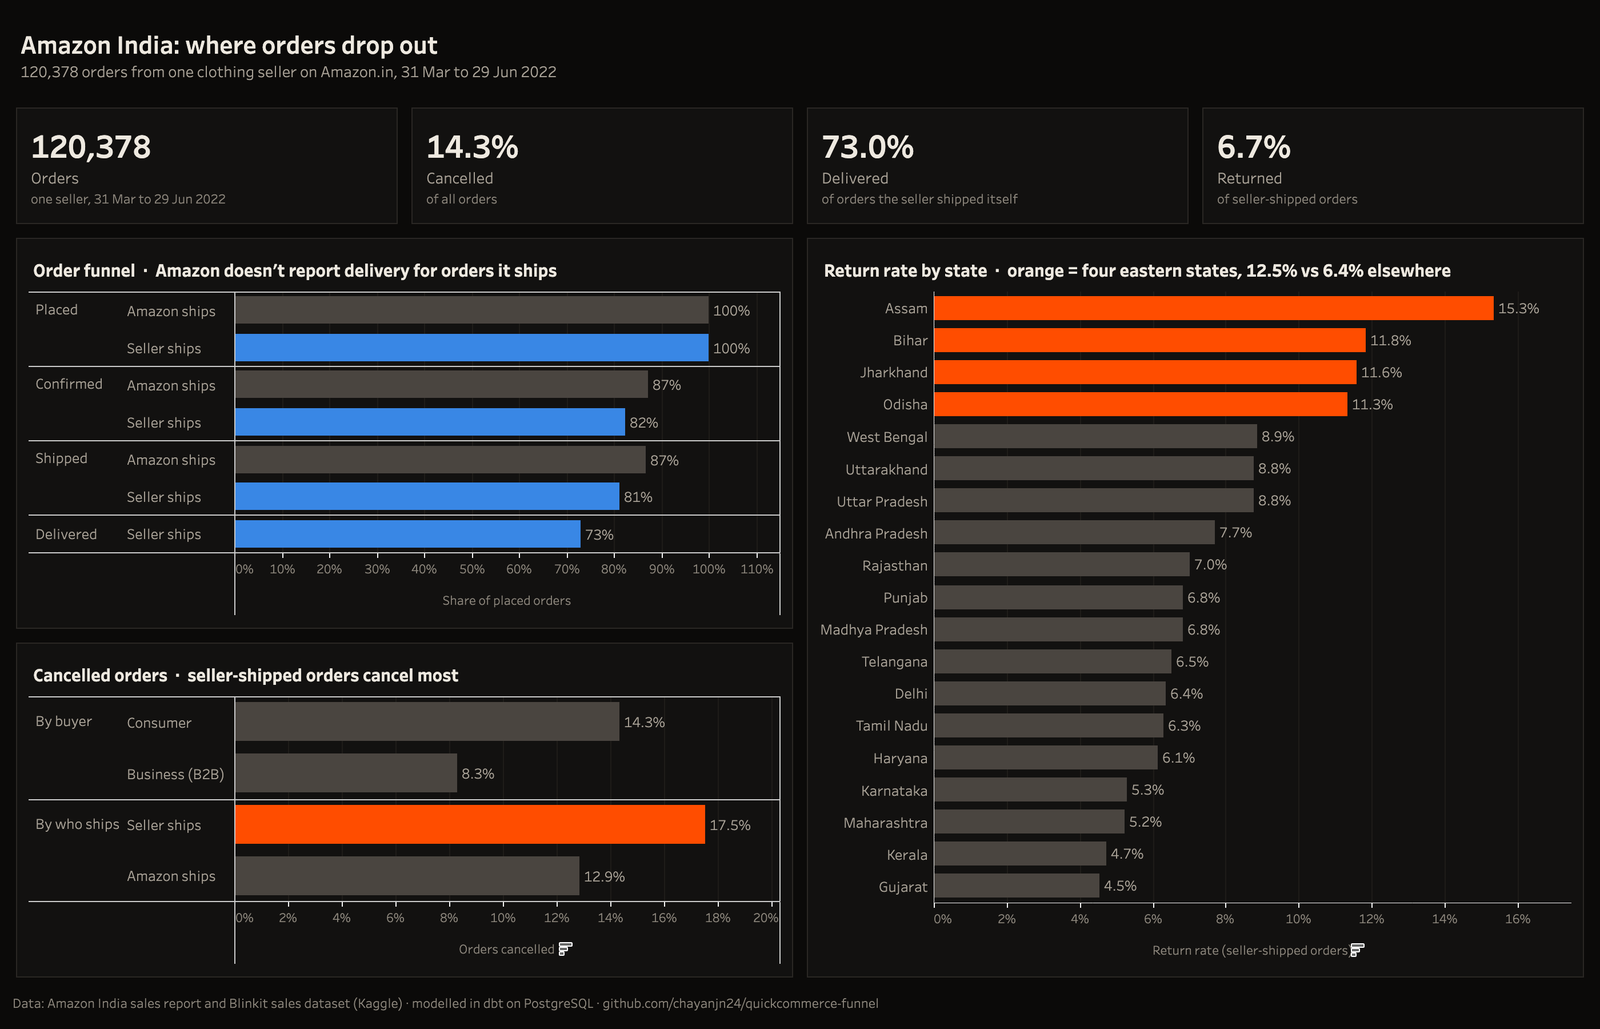
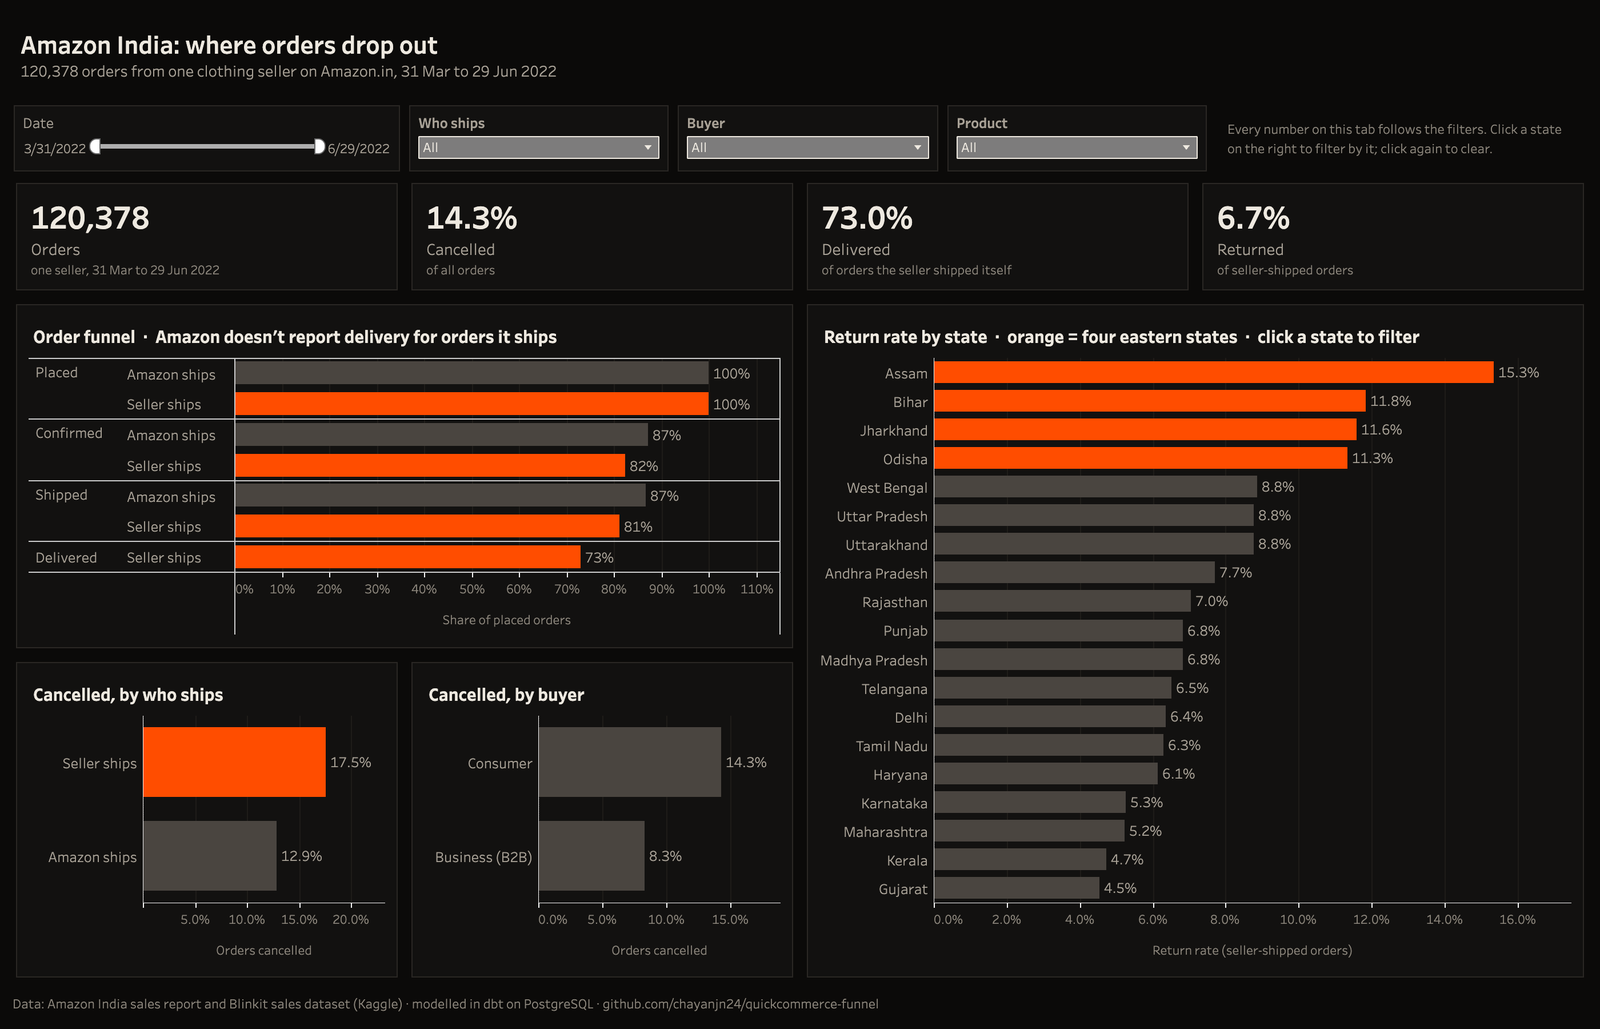
Dashboards with filters: new previews, Credit Risk embeds point at the republished workbooks and fit their fixed size

diff --git a/src/content/projects.ts b/src/content/projects.ts
@@ -55,7 +55,7 @@ const list: Omit<Project, 'num'>[] = [
       'Profiled and engineered features in SQL with CTEs, window functions and cohort analysis: revolving utilisation plus prior delinquency drove a 48% default rate, against 3% for low-risk borrowers.',
       'Benchmarked logistic regression (AUC 0.86) against XGBoost (AUC 0.87).',
       'Turned the scores into a lending policy: declining the riskiest 20% of applicants catches 73% of defaulters.',
-      'Published two cross-filtered Tableau Public dashboards and a business case study.',
+      'Published two cross-filtered Tableau Public dashboards, with filters for age, risk band, income, utilisation and past late payments, and a business case study.',
     ],
     results: [
       ['73%', 'of defaulters caught by declining the riskiest 20%'],
@@ -71,15 +71,17 @@ const list: Omit<Project, 'num'>[] = [
     dashboards: [
       {
         label: 'Portfolio model',
-        view: 'CreditDefaultRisk-PortfolioModel/CreditDefaultRiskPortfolioModel',
+        view: 'CreditDefaultRiskPortfolioModel/CreditDefaultRiskPortfolioModel',
         preview: '/images/projects/tableau-portfolio.png',
-        ratio: 1472 / 908,
+        ratio: 1200 / 800,
+        width: 1200,
       },
       {
         label: 'Risk drivers',
-        view: 'RiskDriversDeepDive/RiskDriversDeepDive',
+        view: 'RiskDriversDeepDive_17931717729410/RiskDriversDeepDive',
         preview: '/images/projects/tableau-drivers.png',
-        ratio: 1440 / 1112,
+        ratio: 1200 / 900,
+        width: 1200,
       },
     ],
   },
@@ -228,7 +230,7 @@ const list: Omit<Project, 'num'>[] = [
       'Caught a trap in the Amazon data: orders with a promotion code look like they almost never get cancelled (0.4% vs 36.1%), but the code is only added once an order goes through. Left it out of the cancellation analysis.',
       'Found returns concentrated in the East: Assam, Bihar, Jharkhand and Odisha sent back 12.5% of the seller’s shipments, twice the 6.4% elsewhere, still clear after correcting for testing 19 states at once.',
       'Simulated a ₹100 win-back test for customers lapsed 60+ days, using Blinkit’s real reorder rate (9.55%) and basket sizes, with a known true effect. The analysis found it, a sample ratio check caught a planted tracking bug, and 2,000 reruns gave a 5.5% false-positive rate.',
-      'Published a three-tab Tableau Public dashboard of the findings, and built a four-tab Metabase dashboard on a read-only login that can’t see the raw data.',
+      'Published a three-tab Tableau Public dashboard of the findings, with filters for dates, who ships, buyer, product, category, payment, segment and campaign, plus a discount what-if on the test, and built a four-tab Metabase dashboard on a read-only login that can’t see the raw data.',
     ],
     results: [
       ['+10.1%', 'more lapsed customers reordered with ₹100 off (simulated test, true effect +12%)'],
